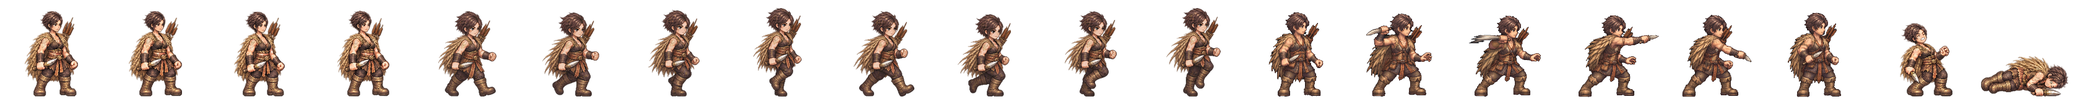
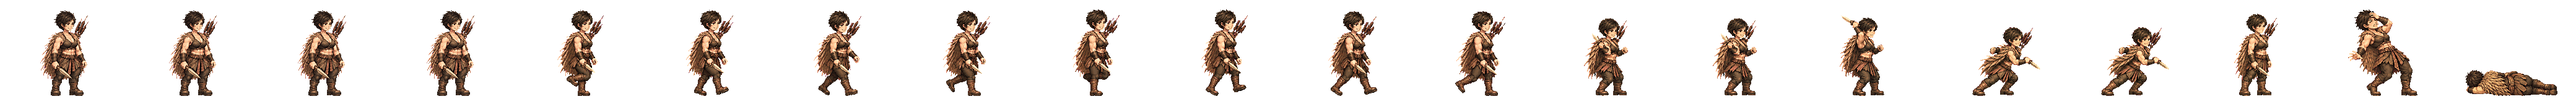
골벌 부들 새 전투 띠를 게임에 넣음(서기·걷기·단검 내려베기 여덟 칸·쓰러짐·칼등 튕겨 보기)
Claude-Session: https://claude.ai/code/session_01TRiuN7s6aDfSnaHxrkctmU

Changed region(s): [[0.0, 0.0938, 1.0, 0.9688]]

diff --git a/src/realm/data/spritePx.ts b/src/realm/data/spritePx.ts
@@ -1,3 +1,3 @@
 /** public/realm/anim-px/manifest.json 의 사본 — tools/sprite-normalize.mjs 가 만든다 (손으로 고치지 말 것). 칸 [가로, 세로] · feet = 발 줄(칸 위에서 y) · bodyPx = 서 있는 몸 키 */
 import { expandManifest } from './sprite-manifest.ts'
-export const SPRITE_PX: Readonly<Record<string, { readonly cell: readonly [number, number]; readonly feet: number; readonly bodyPx: number; readonly kind: 'general' | 'soldier' | 'folk' | 'crowd'; readonly cells: number }>> = expandManifest<{ readonly cell: readonly [number, number]; readonly feet: number; readonly bodyPx: number; readonly kind: 'general' | 'soldier' | 'folk' | 'crowd'; readonly cells: number }>([{"cell":[166,128],"feet":126,"bodyPx":124,"kind":"soldier","cells":20},{"cell":[116,128],"feet":126,"bodyPx":117,"kind":"soldier","cells":20},{"cell":[127,128],"feet":126,"bodyPx":116,"kind":"soldier","cells":20},{"cell":[269,128],"feet":126,"bodyPx":126,"kind":"soldier","cells":20},{"cell":[503,128],"feet":126,"bodyPx":127,"kind":"soldier","cells":20},{"cell":[614,128],"feet":126,"bodyPx":126,"kind":"soldier","cells":20},{"cell":[200,160],"feet":156,"bodyPx":138,"kind":"general","cells":20},{"cell":[208,160],"feet":155,"bodyPx":138,"kind":"general","cells":20},{"cell":[208,160],"feet":154,"bodyPx":138,"kind":"general","cells":20},{"cell":[304,160],"feet":155,"bodyPx":135,"kind":"general","cells":20},{"cell":[224,160],"feet":156,"bodyPx":139,"kind":"general","cells":20},{"cell":[184,160],"feet":156,"bodyPx":138,"kind":"general","cells":20},{"cell":[208,160],"feet":154,"bodyPx":136,"kind":"general","cells":20},{"cell":[240,160],"feet":156,"bodyPx":138,"kind":"general","cells":20},{"cell":[232,160],"feet":156,"bodyPx":138,"kind":"general","cells":20},{"cell":[208,160],"feet":156,"bodyPx":138,"kind":"general","cells":20},{"cell":[168,160],"feet":156,"bodyPx":138,"kind":"general","cells":20},{"cell":[192,160],"feet":156,"bodyPx":138,"kind":"general","cells":20},{"cell":[168,160],"feet":156,"bodyPx":124,"kind":"general","cells":20},{"cell":[216,160],"feet":156,"bodyPx":130,"kind":"general","cells":20},{"cell":[200,160],"feet":156,"bodyPx":116,"kind":"general","cells":20},{"cell":[200,160],"feet":156,"bodyPx":135,"kind":"general","cells":20},{"cell":[280,160],"feet":156,"bodyPx":138,"kind":"general","cells":20},{"cell":[232,160],"feet":155,"bodyPx":138,"kind":"general","cells":20},{"cell":[232,160],"feet":156,"bodyPx":134,"kind":"general","cells":20},{"cell":[144,160],"feet":156,"bodyPx":70,"kind":"general","cells":20},{"cell":[208,160],"feet":156,"bodyPx":70,"kind":"general","cells":20},{"cell":[192,160],"feet":156,"bodyPx":70,"kind":"general","cells":20},{"cell":[240,160],"feet":155,"bodyPx":138,"kind":"general","cells":20},{"cell":[160,160],"feet":156,"bodyPx":135,"kind":"general","cells":20},{"cell":[192,160],"feet":156,"bodyPx":128,"kind":"general","cells":20},{"cell":[224,160],"feet":155,"bodyPx":138,"kind":"general","cells":20},{"cell":[232,160],"feet":156,"bodyPx":139,"kind":"general","cells":20},{"cell":[216,160],"feet":156,"bodyPx":138,"kind":"general","cells":20},{"cell":[208,160],"feet":156,"bodyPx":134,"kind":"general","cells":20},{"cell":[176,160],"feet":156,"bodyPx":130,"kind":"general","cells":20},{"cell":[248,160],"feet":156,"bodyPx":138,"kind":"general","cells":20},{"cell":[248,160],"feet":155,"bodyPx":138,"kind":"general","cells":20},{"cell":[192,160],"feet":155,"bodyPx":138,"kind":"general","cells":20},{"cell":[192,160],"feet":156,"bodyPx":124,"kind":"general","cells":20},{"cell":[208,160],"feet":154,"bodyPx":131,"kind":"general","cells":20},{"cell":[256,160],"feet":156,"bodyPx":138,"kind":"general","cells":20},{"cell":[232,160],"feet":156,"bodyPx":73,"kind":"general","cells":20},{"cell":[256,160],"feet":155,"bodyPx":138,"kind":"general","cells":20},{"cell":[264,160],"feet":156,"bodyPx":138,"kind":"general","cells":20},{"cell":[224,160],"feet":156,"bodyPx":138,"kind":"general","cells":20},{"cell":[224,160],"feet":156,"bodyPx":128,"kind":"general","cells":20},{"cell":[176,160],"feet":156,"bodyPx":129,"kind":"general","cells":20},{"cell":[208,160],"feet":154,"bodyPx":139,"kind":"general","cells":20},{"cell":[208,160],"feet":156,"bodyPx":132,"kind":"general","cells":20},{"cell":[216,160],"feet":155,"bodyPx":138,"kind":"general","cells":20},{"cell":[184,160],"feet":156,"bodyPx":122,"kind":"general","cells":20},{"cell":[176,160],"feet":156,"bodyPx":138,"kind":"general","cells":20},{"cell":[280,160],"feet":155,"bodyPx":133,"kind":"general","cells":20},{"cell":[176,160],"feet":156,"bodyPx":70,"kind":"general","cells":20},{"cell":[186,128],"feet":126,"bodyPx":127,"kind":"soldier","cells":20},{"cell":[298,128],"feet":126,"bodyPx":126,"kind":"soldier","cells":20},{"cell":[82,128],"feet":126,"bodyPx":114,"kind":"folk","cells":8},{"cell":[134,128],"feet":126,"bodyPx":119,"kind":"soldier","cells":20},{"cell":[380,128],"feet":126,"bodyPx":124,"kind":"soldier","cells":20},{"cell":[114,128],"feet":126,"bodyPx":115,"kind":"soldier","cells":20},{"cell":[122,128],"feet":126,"bodyPx":114,"kind":"soldier","cells":20},{"cell":[254,128],"feet":126,"bodyPx":128,"kind":"soldier","cells":20},{"cell":[438,128],"feet":126,"bodyPx":126,"kind":"soldier","cells":20},{"cell":[88,128],"feet":126,"bodyPx":113,"kind":"folk","cells":8},{"cell":[100,128],"feet":126,"bodyPx":115,"kind":"folk","cells":8},{"cell":[108,128],"feet":126,"bodyPx":115,"kind":"folk","cells":8},{"cell":[63,128],"feet":126,"bodyPx":113,"kind":"folk","cells":8},{"cell":[69,96],"feet":96,"bodyPx":96,"kind":"crowd","cells":1},{"cell":[54,96],"feet":96,"bodyPx":96,"kind":"crowd","cells":1},{"cell":[47,96],"feet":96,"bodyPx":96,"kind":"crowd","cells":1},{"cell":[49,96],"feet":96,"bodyPx":96,"kind":"crowd","cells":1},{"cell":[57,96],"feet":96,"bodyPx":96,"kind":"crowd","cells":1},{"cell":[55,96],"feet":96,"bodyPx":96,"kind":"crowd","cells":1},{"cell":[45,96],"feet":96,"bodyPx":96,"kind":"crowd","cells":1},{"cell":[53,96],"feet":96,"bodyPx":96,"kind":"crowd","cells":1},{"cell":[64,96],"feet":96,"bodyPx":96,"kind":"crowd","cells":1},{"cell":[184,160],"feet":156,"bodyPx":124,"kind":"general","cells":20},{"cell":[184,160],"feet":156,"bodyPx":134,"kind":"general","cells":20},{"cell":[224,160],"feet":156,"bodyPx":133,"kind":"general","cells":20},{"cell":[192,160],"feet":156,"bodyPx":135,"kind":"general","cells":20},{"cell":[184,160],"feet":156,"bodyPx":137,"kind":"general","cells":20},{"cell":[216,160],"feet":156,"bodyPx":134,"kind":"general","cells":20},{"cell":[216,160],"feet":156,"bodyPx":132,"kind":"general","cells":20},{"cell":[288,160],"feet":156,"bodyPx":138,"kind":"general","cells":20},{"cell":[192,160],"feet":156,"bodyPx":118,"kind":"general","cells":20},{"cell":[208,160],"feet":154,"bodyPx":134,"kind":"general","cells":20},{"cell":[192,160],"feet":157,"bodyPx":139,"kind":"general","cells":20},{"cell":[184,160],"feet":156,"bodyPx":128,"kind":"general","cells":20},{"cell":[240,160],"feet":156,"bodyPx":128,"kind":"general","cells":20},{"cell":[184,160],"feet":156,"bodyPx":132,"kind":"general","cells":20},{"cell":[208,160],"feet":156,"bodyPx":123,"kind":"general","cells":20},{"cell":[208,160],"feet":154,"bodyPx":137,"kind":"general","cells":20},{"cell":[176,160],"feet":156,"bodyPx":116,"kind":"general","cells":20},{"cell":[272,160],"feet":156,"bodyPx":138,"kind":"general","cells":20},{"cell":[176,160],"feet":156,"bodyPx":122,"kind":"general","cells":20},{"cell":[232,160],"feet":156,"bodyPx":127,"kind":"general","cells":20},{"cell":[176,160],"feet":156,"bodyPx":137,"kind":"general","cells":20},{"cell":[184,160],"feet":156,"bodyPx":133,"kind":"general","cells":20}],[["axe",0],["bandit-chief",1],["bandit-club",2],["boat",3],["bow",4],["crossbow",5],["gen-adogan",6],["gen-alpyeong",7],["gen-ara",8],["gen-areum",8],["gen-aryeong",9],["gen-bakdal",6],["gen-baram",10],["gen-bdanbi",11],["gen-beom",12],["gen-beombal",11],["gen-beomi",13],["gen-bira",14],["gen-biryu",15],["gen-budeul",16],["gen-byeol",17],["gen-daemusin",18],["gen-daeso",19],["gen-dallae2",11],["gen-dalli",11],["gen-damul",20],["gen-danbi",15],["gen-dangung",17],["gen-darae",21],["gen-dokmudeom",7],["gen-duman",22],["gen-eomni",23],["gen-eureum",24],["gen-g-bow",25],["gen-g-spear",26],["gen-g-sword",27],["gen-gaennae",6],["gen-gamsil",28],["gen-gaon",29],["gen-geota",15],["gen-geumbawi",11],["gen-geumha",30],["gen-goeun",15],["gen-gom",31],["gen-gomok",15],["gen-gureum",28],["gen-guryema",17],["gen-gwaeyu",14],["gen-haebi",8],["gen-haedal",6],["gen-haesol",32],["gen-halla",7],["gen-heo",8],["gen-hneoul",11],["gen-hogong",33],["gen-hojin",15],["gen-horselord",34],["gen-hwalmi",35],["gen-hyeokgeose",17],["gen-hyeopbo",6],["gen-irang",15],["gen-jibaekho",36],["gen-jinha",37],["gen-jita",38],["gen-jumong",39],["gen-keundol",7],["gen-maehwa",40],["gen-maenun",17],["gen-malgalgi",41],["gen-mari",13],["gen-maro",36],["gen-maryeo",15],["gen-mdallae",32],["gen-mir",6],["gen-mount",42],["gen-mulbeom",43],["gen-mulsae",33],["gen-musoe",33],["gen-noeul",8],["gen-nuri",44],["gen-ocheongan",45],["gen-odi",8],["gen-odogan",6],["gen-ogan",17],["gen-oi",46],["gen-olddaeso",24],["gen-onjo",47],["gen-pidogan",15],["gen-sagong",48],["gen-sdallae",6],["gen-sincheongan",33],["gen-singwigan",33],["gen-sinneoul",8],["gen-sobeol",23],["gen-soebi",6],["gen-soebo",49],["gen-soenun",36],["gen-sogeumbi",50],["gen-songbi",45],["gen-songyang",51],["gen-sori",52],["gen-soseono",53],["gen-suro",17],["gen-tahae",6],["gen-tneoul",8],["gen-w-bow",25],["gen-w-spear",54],["gen-waechief",15],["gen-wan",33],["gen-yeodogan",15],["gen-yucheongan",15],["gen-yusugan",36],["horse",55],["marine",56],["migrant",57],["militia",58],["pike",59],["pirate-captain",60],["pirate-sword",61],["shield",62],["spear",63],["villager-builder",64],["villager-farmer",65],["villager-porter",66],["villager-woman",67],["crowd-b1",68],["crowd-b2",69],["crowd-b3",70],["crowd-b4",71],["crowd-b5",72],["crowd-b6",73],["crowd-f1",68],["crowd-f2",73],["crowd-f3",74],["crowd-f4",75],["crowd-f5",68],["crowd-f6",76],["gen-dalbit",15],["gen-base-g-07-drunk-warrior",17],["gen-base-g-40-anya-adan",15],["gen-base-w-13-young-archer",8],["gen-base-g-03-sea-trader",13],["gen-base-w-10-pirate-captain",48],["gen-base-w-64-miri-dallae",48],["gen-base-g-41-goja-bau",13],["gen-base-g-42-dokro-garam",44],["gen-base-g-09-farmer-conscript",33],["gen-base-w-02-goguryeo-lady",33],["gen-base-w-17-mahan-pearl-diver",8],["gen-base-g-17-saro-isageum",49],["gen-base-g-18-daegaya-king",77],["gen-base-g-35-dabeol-dalgu",15],["gen-base-g-19-sabeol-veteran",33],["gen-base-w-23-usisan-whale-queen",8],["gen-base-g-36-gammun-gamdol",45],["gen-base-g-20-samul-sea-lord",41],["gen-base-g-37-eumjeup-jeup",11],["gen-base-g-38-chopal-palmae",17],["gen-base-w-75-daegaya-soemoe",17],["gen-base-g-45-dabeol-deulgae",11],["gen-base-g-04-jinhan-giant",15],["gen-base-g-08-veteran",15],["gen-base-w-18-jinhan-salt-widow",15],["gen-base-w-12-court-dancer",78],["gen-base-w-83-gyeonji-beodeul",79],["gen-base-w-05-baekje-queen",80],["gen-base-w-21-baekje-court-dancer",11],["gen-base-g-01-master-smith",81],["gen-base-g-93-jomun-solgae",35],["gen-base-g-57-bihwa-neup",13],["gen-base-w-72-eumjeup-beol",8],["gen-base-w-102-garak-dana",48],["gen-base-g-68-baekje-onnuri",15],["gen-base-w-27-mokji-jinha",6],["gen-base-g-22-ungcheon-gomnae",6],["gen-base-g-23-sangdang-soedal",15],["gen-base-g-24-wansan-onsan",6],["gen-base-g-25-balla-keunmoe",33],["gen-base-g-61-heomcheuk-bawi",33],["gen-base-g-88-wander-soeul",45],["gen-base-w-14-feast-spy",6],["gen-base-g-12-silla-youth",82],["gen-base-w-08-mahan-warrior",8],["gen-base-g-62-beonye-hanul",13],["gen-base-g-63-heomcheuk-beogeum",15],["gen-base-g-84-wander-seoneul",15],["gen-base-w-50-siljik-mulga",33],["gen-base-g-46-uga-nureongso",33],["gen-base-w-80-usan-gangchi",13],["gen-base-g-47-guga-sanyanggae",33],["gen-base-w-76-gampyeong-baetsagong",8],["gen-base-g-05-mahan-chieftain",83],["gen-base-g-58-usan-uhae",15],["gen-base-g-27-maek-maekdol",15],["gen-base-w-53-hwanna-gabi",16],["gen-base-w-29-golpo-janmul",36],["gen-base-g-53-baekje-haeru",6],["gen-base-w-71-yeonna-neoul",13],["gen-base-w-79-yangmaek-solmae",33],["gen-base-w-34-chopal-deulme",8],["gen-base-g-44-maga-malgup",84],["gen-base-w-31-dabeol-dalbit",48],["gen-base-g-51-biryuna-mulgyeol",45],["gen-base-g-48-gwanna-musoe",15],["gen-base-g-32-uga-sodu",14],["gen-base-g-49-goguryeo-sona",85],["gen-base-g-30-gwanna-soemoe",45],["gen-base-g-52-tamna-oreum",11],["gen-base-g-29-yeonna-myeongsol",39],["gen-base-w-56-dongokjeo-sogeum",86],["gen-base-g-54-mokji-mahan",14],["gen-base-g-33-jeoga-metdol",17],["gen-base-w-36-baekje-maena",8],["gen-base-w-38-sangdang-bulmae",6],["gen-base-w-39-gosaburi-galmae",87],["gen-base-w-40-mujin-munui",49],["gen-base-w-41-hwanna-beodeul",88],["gen-base-w-43-uga-nuri",41],["gen-base-w-45-tamna-oreumbi",11],["gen-base-g-60-golbeol-golgae",11],["gen-base-g-61-apdok-ap",33],["gen-base-g-62-gammun-gamnamu",6],["gen-base-g-63-chopal-yeoul",36],["gen-base-g-64-michuhol-sogeumkkun",13],["gen-base-g-65-sangdang-soemangchi",45],["gen-base-g-66-geonma-malbalgup",89],["gen-base-g-67-gosaburi-buri",90],["gen-base-g-68-mujin-bitgoeul",11],["gen-base-g-69-goryong-yong",45],["gen-base-g-70-siljik-pado",13],["gen-base-w-81-byeokjin-byeolbit",14],["gen-base-w-46-geonma-maru",36],["gen-base-w-48-mujin-mudeung",13],["gen-base-g-26-gampyeong-gaetbeol",14],["gen-base-g-60-eupcha-hangyeol",91],["gen-base-g-15-shaman-man",33],["gen-base-g-85-wander-ure",36],["gen-base-g-43-hwanna-amnok",15],["gen-base-g-50-bullae-gwaha",80],["gen-base-g-55-saro-bakdal",15],["gen-base-g-56-haseulla-gwahama",6],["gen-base-w-06-buyeo-huntress",92],["gen-base-w-22-dongye-tiger-huntress",8],["gen-base-w-25-bihwa-priestess",33],["gen-base-w-24-apdok-queen",11],["gen-base-w-61-iseo-sinae",15],["gen-base-w-26-iseo-tomboy-general",8],["gen-base-g-59-yangmaek-maekson",93],["gen-aw1-haebi",45],["gen-aw1-soseono",94],["gen-aw1-gamsil",11],["gen-aw1-mir",52],["gen-aw1-dangung",6],["gen-aw1-ara",45],["gen-aw1-jumong",95],["gen-aw1-onjo",96],["gen-aw1-base-w-83-gyeonji-beodeul",17],["gen-aw1-heo",44],["gen-aw1-base-g-38-chopal-palmae",6],["gen-aw1-base-w-25-bihwa-priestess",78],["gen-aw1-sori",16],["gen-aw1-gomok",6],["gen-aw1-irang",17],["gen-aw1-budeul",16],["gen-aw1-gom",13],["gen-aw1-sdallae",6],["gen-aw1-base-w-13-young-archer",6],["gen-aw1-base-w-36-baekje-maena",97],["gen-aw1-base-g-09-farmer-conscript",44],["gen-aw1-base-w-02-goguryeo-lady",98],["gen-aw1-haedal",11],["gen-aw1-hogong",6],["gen-aw1-maehwa",52],["gen-aw1-base-w-06-buyeo-huntress",14],["gen-aw1-base-w-08-mahan-warrior",45],["gen-aw1-base-w-29-golpo-janmul",45],["gen-aw1-base-w-31-dabeol-dalbit",17],["gen-aw1-base-w-38-sangdang-bulmae",16],["gen-aw1-bira",33],["gen-aw1-base-w-53-hwanna-gabi",16],["gen-aw1-base-w-56-dongokjeo-sogeum",52],["gen-aw1-base-w-72-eumjeup-beol",17],["gen-aw1-bdanbi",16],["gen-aw1-beom",11],["gen-aw1-beombal",11],["gen-aw1-byeol",17],["gen-aw1-dalli",52],["gen-aw1-malgalgi",36],["gen-aw1-sincheongan",33]])
+export const SPRITE_PX: Readonly<Record<string, { readonly cell: readonly [number, number]; readonly feet: number; readonly bodyPx: number; readonly kind: 'general' | 'soldier' | 'folk' | 'crowd'; readonly cells: number }>> = expandManifest<{ readonly cell: readonly [number, number]; readonly feet: number; readonly bodyPx: number; readonly kind: 'general' | 'soldier' | 'folk' | 'crowd'; readonly cells: number }>([{"cell":[166,128],"feet":126,"bodyPx":124,"kind":"soldier","cells":20},{"cell":[116,128],"feet":126,"bodyPx":117,"kind":"soldier","cells":20},{"cell":[127,128],"feet":126,"bodyPx":116,"kind":"soldier","cells":20},{"cell":[269,128],"feet":126,"bodyPx":126,"kind":"soldier","cells":20},{"cell":[503,128],"feet":126,"bodyPx":127,"kind":"soldier","cells":20},{"cell":[614,128],"feet":126,"bodyPx":126,"kind":"soldier","cells":20},{"cell":[200,160],"feet":156,"bodyPx":138,"kind":"general","cells":20},{"cell":[208,160],"feet":155,"bodyPx":138,"kind":"general","cells":20},{"cell":[208,160],"feet":154,"bodyPx":138,"kind":"general","cells":20},{"cell":[304,160],"feet":155,"bodyPx":135,"kind":"general","cells":20},{"cell":[224,160],"feet":156,"bodyPx":139,"kind":"general","cells":20},{"cell":[184,160],"feet":156,"bodyPx":138,"kind":"general","cells":20},{"cell":[208,160],"feet":154,"bodyPx":136,"kind":"general","cells":20},{"cell":[240,160],"feet":156,"bodyPx":138,"kind":"general","cells":20},{"cell":[232,160],"feet":156,"bodyPx":138,"kind":"general","cells":20},{"cell":[208,160],"feet":156,"bodyPx":138,"kind":"general","cells":20},{"cell":[192,160],"feet":156,"bodyPx":138,"kind":"general","cells":20},{"cell":[168,160],"feet":156,"bodyPx":124,"kind":"general","cells":20},{"cell":[216,160],"feet":156,"bodyPx":130,"kind":"general","cells":20},{"cell":[200,160],"feet":156,"bodyPx":116,"kind":"general","cells":20},{"cell":[200,160],"feet":156,"bodyPx":135,"kind":"general","cells":20},{"cell":[280,160],"feet":156,"bodyPx":138,"kind":"general","cells":20},{"cell":[232,160],"feet":155,"bodyPx":138,"kind":"general","cells":20},{"cell":[232,160],"feet":156,"bodyPx":134,"kind":"general","cells":20},{"cell":[144,160],"feet":156,"bodyPx":70,"kind":"general","cells":20},{"cell":[208,160],"feet":156,"bodyPx":70,"kind":"general","cells":20},{"cell":[192,160],"feet":156,"bodyPx":70,"kind":"general","cells":20},{"cell":[240,160],"feet":155,"bodyPx":138,"kind":"general","cells":20},{"cell":[160,160],"feet":156,"bodyPx":135,"kind":"general","cells":20},{"cell":[192,160],"feet":156,"bodyPx":128,"kind":"general","cells":20},{"cell":[224,160],"feet":155,"bodyPx":138,"kind":"general","cells":20},{"cell":[232,160],"feet":156,"bodyPx":139,"kind":"general","cells":20},{"cell":[216,160],"feet":156,"bodyPx":138,"kind":"general","cells":20},{"cell":[208,160],"feet":156,"bodyPx":134,"kind":"general","cells":20},{"cell":[176,160],"feet":156,"bodyPx":130,"kind":"general","cells":20},{"cell":[248,160],"feet":156,"bodyPx":138,"kind":"general","cells":20},{"cell":[248,160],"feet":155,"bodyPx":138,"kind":"general","cells":20},{"cell":[192,160],"feet":155,"bodyPx":138,"kind":"general","cells":20},{"cell":[192,160],"feet":156,"bodyPx":124,"kind":"general","cells":20},{"cell":[208,160],"feet":154,"bodyPx":131,"kind":"general","cells":20},{"cell":[256,160],"feet":156,"bodyPx":138,"kind":"general","cells":20},{"cell":[232,160],"feet":156,"bodyPx":73,"kind":"general","cells":20},{"cell":[256,160],"feet":155,"bodyPx":138,"kind":"general","cells":20},{"cell":[264,160],"feet":156,"bodyPx":138,"kind":"general","cells":20},{"cell":[224,160],"feet":156,"bodyPx":138,"kind":"general","cells":20},{"cell":[224,160],"feet":156,"bodyPx":128,"kind":"general","cells":20},{"cell":[176,160],"feet":156,"bodyPx":129,"kind":"general","cells":20},{"cell":[208,160],"feet":154,"bodyPx":139,"kind":"general","cells":20},{"cell":[208,160],"feet":156,"bodyPx":132,"kind":"general","cells":20},{"cell":[216,160],"feet":155,"bodyPx":138,"kind":"general","cells":20},{"cell":[184,160],"feet":156,"bodyPx":122,"kind":"general","cells":20},{"cell":[176,160],"feet":156,"bodyPx":138,"kind":"general","cells":20},{"cell":[280,160],"feet":155,"bodyPx":133,"kind":"general","cells":20},{"cell":[176,160],"feet":156,"bodyPx":70,"kind":"general","cells":20},{"cell":[186,128],"feet":126,"bodyPx":127,"kind":"soldier","cells":20},{"cell":[298,128],"feet":126,"bodyPx":126,"kind":"soldier","cells":20},{"cell":[82,128],"feet":126,"bodyPx":114,"kind":"folk","cells":8},{"cell":[134,128],"feet":126,"bodyPx":119,"kind":"soldier","cells":20},{"cell":[380,128],"feet":126,"bodyPx":124,"kind":"soldier","cells":20},{"cell":[114,128],"feet":126,"bodyPx":115,"kind":"soldier","cells":20},{"cell":[122,128],"feet":126,"bodyPx":114,"kind":"soldier","cells":20},{"cell":[254,128],"feet":126,"bodyPx":128,"kind":"soldier","cells":20},{"cell":[438,128],"feet":126,"bodyPx":126,"kind":"soldier","cells":20},{"cell":[88,128],"feet":126,"bodyPx":113,"kind":"folk","cells":8},{"cell":[100,128],"feet":126,"bodyPx":115,"kind":"folk","cells":8},{"cell":[108,128],"feet":126,"bodyPx":115,"kind":"folk","cells":8},{"cell":[63,128],"feet":126,"bodyPx":113,"kind":"folk","cells":8},{"cell":[69,96],"feet":96,"bodyPx":96,"kind":"crowd","cells":1},{"cell":[54,96],"feet":96,"bodyPx":96,"kind":"crowd","cells":1},{"cell":[47,96],"feet":96,"bodyPx":96,"kind":"crowd","cells":1},{"cell":[49,96],"feet":96,"bodyPx":96,"kind":"crowd","cells":1},{"cell":[57,96],"feet":96,"bodyPx":96,"kind":"crowd","cells":1},{"cell":[55,96],"feet":96,"bodyPx":96,"kind":"crowd","cells":1},{"cell":[45,96],"feet":96,"bodyPx":96,"kind":"crowd","cells":1},{"cell":[53,96],"feet":96,"bodyPx":96,"kind":"crowd","cells":1},{"cell":[64,96],"feet":96,"bodyPx":96,"kind":"crowd","cells":1},{"cell":[184,160],"feet":156,"bodyPx":124,"kind":"general","cells":20},{"cell":[184,160],"feet":156,"bodyPx":134,"kind":"general","cells":20},{"cell":[224,160],"feet":156,"bodyPx":133,"kind":"general","cells":20},{"cell":[192,160],"feet":156,"bodyPx":135,"kind":"general","cells":20},{"cell":[184,160],"feet":156,"bodyPx":137,"kind":"general","cells":20},{"cell":[216,160],"feet":156,"bodyPx":134,"kind":"general","cells":20},{"cell":[216,160],"feet":156,"bodyPx":132,"kind":"general","cells":20},{"cell":[168,160],"feet":156,"bodyPx":138,"kind":"general","cells":20},{"cell":[288,160],"feet":156,"bodyPx":138,"kind":"general","cells":20},{"cell":[192,160],"feet":156,"bodyPx":118,"kind":"general","cells":20},{"cell":[208,160],"feet":154,"bodyPx":134,"kind":"general","cells":20},{"cell":[192,160],"feet":157,"bodyPx":139,"kind":"general","cells":20},{"cell":[184,160],"feet":156,"bodyPx":128,"kind":"general","cells":20},{"cell":[240,160],"feet":156,"bodyPx":128,"kind":"general","cells":20},{"cell":[184,160],"feet":156,"bodyPx":132,"kind":"general","cells":20},{"cell":[208,160],"feet":156,"bodyPx":123,"kind":"general","cells":20},{"cell":[208,160],"feet":154,"bodyPx":137,"kind":"general","cells":20},{"cell":[176,160],"feet":156,"bodyPx":116,"kind":"general","cells":20},{"cell":[272,160],"feet":156,"bodyPx":138,"kind":"general","cells":20},{"cell":[176,160],"feet":156,"bodyPx":122,"kind":"general","cells":20},{"cell":[232,160],"feet":156,"bodyPx":127,"kind":"general","cells":20},{"cell":[176,160],"feet":156,"bodyPx":137,"kind":"general","cells":20},{"cell":[184,160],"feet":156,"bodyPx":133,"kind":"general","cells":20}],[["axe",0],["bandit-chief",1],["bandit-club",2],["boat",3],["bow",4],["crossbow",5],["gen-adogan",6],["gen-alpyeong",7],["gen-ara",8],["gen-areum",8],["gen-aryeong",9],["gen-bakdal",6],["gen-baram",10],["gen-bdanbi",11],["gen-beom",12],["gen-beombal",11],["gen-beomi",13],["gen-bira",14],["gen-biryu",15],["gen-budeul",8],["gen-byeol",16],["gen-daemusin",17],["gen-daeso",18],["gen-dallae2",11],["gen-dalli",11],["gen-damul",19],["gen-danbi",15],["gen-dangung",16],["gen-darae",20],["gen-dokmudeom",7],["gen-duman",21],["gen-eomni",22],["gen-eureum",23],["gen-g-bow",24],["gen-g-spear",25],["gen-g-sword",26],["gen-gaennae",6],["gen-gamsil",27],["gen-gaon",28],["gen-geota",15],["gen-geumbawi",11],["gen-geumha",29],["gen-goeun",15],["gen-gom",30],["gen-gomok",15],["gen-gureum",27],["gen-guryema",16],["gen-gwaeyu",14],["gen-haebi",8],["gen-haedal",6],["gen-haesol",31],["gen-halla",7],["gen-heo",8],["gen-hneoul",11],["gen-hogong",32],["gen-hojin",15],["gen-horselord",33],["gen-hwalmi",34],["gen-hyeokgeose",16],["gen-hyeopbo",6],["gen-irang",15],["gen-jibaekho",35],["gen-jinha",36],["gen-jita",37],["gen-jumong",38],["gen-keundol",7],["gen-maehwa",39],["gen-maenun",16],["gen-malgalgi",40],["gen-mari",13],["gen-maro",35],["gen-maryeo",15],["gen-mdallae",31],["gen-mir",6],["gen-mount",41],["gen-mulbeom",42],["gen-mulsae",32],["gen-musoe",32],["gen-noeul",8],["gen-nuri",43],["gen-ocheongan",44],["gen-odi",8],["gen-odogan",6],["gen-ogan",16],["gen-oi",45],["gen-olddaeso",23],["gen-onjo",46],["gen-pidogan",15],["gen-sagong",47],["gen-sdallae",6],["gen-sincheongan",32],["gen-singwigan",32],["gen-sinneoul",8],["gen-sobeol",22],["gen-soebi",6],["gen-soebo",48],["gen-soenun",35],["gen-sogeumbi",49],["gen-songbi",44],["gen-songyang",50],["gen-sori",51],["gen-soseono",52],["gen-suro",16],["gen-tahae",6],["gen-tneoul",8],["gen-w-bow",24],["gen-w-spear",53],["gen-waechief",15],["gen-wan",32],["gen-yeodogan",15],["gen-yucheongan",15],["gen-yusugan",35],["horse",54],["marine",55],["migrant",56],["militia",57],["pike",58],["pirate-captain",59],["pirate-sword",60],["shield",61],["spear",62],["villager-builder",63],["villager-farmer",64],["villager-porter",65],["villager-woman",66],["crowd-b1",67],["crowd-b2",68],["crowd-b3",69],["crowd-b4",70],["crowd-b5",71],["crowd-b6",72],["crowd-f1",67],["crowd-f2",72],["crowd-f3",73],["crowd-f4",74],["crowd-f5",67],["crowd-f6",75],["gen-dalbit",15],["gen-base-g-07-drunk-warrior",16],["gen-base-g-40-anya-adan",15],["gen-base-w-13-young-archer",8],["gen-base-g-03-sea-trader",13],["gen-base-w-10-pirate-captain",47],["gen-base-w-64-miri-dallae",47],["gen-base-g-41-goja-bau",13],["gen-base-g-42-dokro-garam",43],["gen-base-g-09-farmer-conscript",32],["gen-base-w-02-goguryeo-lady",32],["gen-base-w-17-mahan-pearl-diver",8],["gen-base-g-17-saro-isageum",48],["gen-base-g-18-daegaya-king",76],["gen-base-g-35-dabeol-dalgu",15],["gen-base-g-19-sabeol-veteran",32],["gen-base-w-23-usisan-whale-queen",8],["gen-base-g-36-gammun-gamdol",44],["gen-base-g-20-samul-sea-lord",40],["gen-base-g-37-eumjeup-jeup",11],["gen-base-g-38-chopal-palmae",16],["gen-base-w-75-daegaya-soemoe",16],["gen-base-g-45-dabeol-deulgae",11],["gen-base-g-04-jinhan-giant",15],["gen-base-g-08-veteran",15],["gen-base-w-18-jinhan-salt-widow",15],["gen-base-w-12-court-dancer",77],["gen-base-w-83-gyeonji-beodeul",78],["gen-base-w-05-baekje-queen",79],["gen-base-w-21-baekje-court-dancer",11],["gen-base-g-01-master-smith",80],["gen-base-g-93-jomun-solgae",34],["gen-base-g-57-bihwa-neup",13],["gen-base-w-72-eumjeup-beol",8],["gen-base-w-102-garak-dana",47],["gen-base-g-68-baekje-onnuri",15],["gen-base-w-27-mokji-jinha",6],["gen-base-g-22-ungcheon-gomnae",6],["gen-base-g-23-sangdang-soedal",15],["gen-base-g-24-wansan-onsan",6],["gen-base-g-25-balla-keunmoe",32],["gen-base-g-61-heomcheuk-bawi",32],["gen-base-g-88-wander-soeul",44],["gen-base-w-14-feast-spy",6],["gen-base-g-12-silla-youth",81],["gen-base-w-08-mahan-warrior",8],["gen-base-g-62-beonye-hanul",13],["gen-base-g-63-heomcheuk-beogeum",15],["gen-base-g-84-wander-seoneul",15],["gen-base-w-50-siljik-mulga",32],["gen-base-g-46-uga-nureongso",32],["gen-base-w-80-usan-gangchi",13],["gen-base-g-47-guga-sanyanggae",32],["gen-base-w-76-gampyeong-baetsagong",8],["gen-base-g-05-mahan-chieftain",82],["gen-base-g-58-usan-uhae",15],["gen-base-g-27-maek-maekdol",15],["gen-base-w-53-hwanna-gabi",83],["gen-base-w-29-golpo-janmul",35],["gen-base-g-53-baekje-haeru",6],["gen-base-w-71-yeonna-neoul",13],["gen-base-w-79-yangmaek-solmae",32],["gen-base-w-34-chopal-deulme",8],["gen-base-g-44-maga-malgup",84],["gen-base-w-31-dabeol-dalbit",47],["gen-base-g-51-biryuna-mulgyeol",44],["gen-base-g-48-gwanna-musoe",15],["gen-base-g-32-uga-sodu",14],["gen-base-g-49-goguryeo-sona",85],["gen-base-g-30-gwanna-soemoe",44],["gen-base-g-52-tamna-oreum",11],["gen-base-g-29-yeonna-myeongsol",38],["gen-base-w-56-dongokjeo-sogeum",86],["gen-base-g-54-mokji-mahan",14],["gen-base-g-33-jeoga-metdol",16],["gen-base-w-36-baekje-maena",8],["gen-base-w-38-sangdang-bulmae",6],["gen-base-w-39-gosaburi-galmae",87],["gen-base-w-40-mujin-munui",48],["gen-base-w-41-hwanna-beodeul",88],["gen-base-w-43-uga-nuri",40],["gen-base-w-45-tamna-oreumbi",11],["gen-base-g-60-golbeol-golgae",11],["gen-base-g-61-apdok-ap",32],["gen-base-g-62-gammun-gamnamu",6],["gen-base-g-63-chopal-yeoul",35],["gen-base-g-64-michuhol-sogeumkkun",13],["gen-base-g-65-sangdang-soemangchi",44],["gen-base-g-66-geonma-malbalgup",89],["gen-base-g-67-gosaburi-buri",90],["gen-base-g-68-mujin-bitgoeul",11],["gen-base-g-69-goryong-yong",44],["gen-base-g-70-siljik-pado",13],["gen-base-w-81-byeokjin-byeolbit",14],["gen-base-w-46-geonma-maru",35],["gen-base-w-48-mujin-mudeung",13],["gen-base-g-26-gampyeong-gaetbeol",14],["gen-base-g-60-eupcha-hangyeol",91],["gen-base-g-15-shaman-man",32],["gen-base-g-85-wander-ure",35],["gen-base-g-43-hwanna-amnok",15],["gen-base-g-50-bullae-gwaha",79],["gen-base-g-55-saro-bakdal",15],["gen-base-g-56-haseulla-gwahama",6],["gen-base-w-06-buyeo-huntress",92],["gen-base-w-22-dongye-tiger-huntress",8],["gen-base-w-25-bihwa-priestess",32],["gen-base-w-24-apdok-queen",11],["gen-base-w-61-iseo-sinae",15],["gen-base-w-26-iseo-tomboy-general",8],["gen-base-g-59-yangmaek-maekson",93],["gen-aw1-haebi",44],["gen-aw1-soseono",94],["gen-aw1-gamsil",11],["gen-aw1-mir",51],["gen-aw1-dangung",6],["gen-aw1-ara",44],["gen-aw1-jumong",95],["gen-aw1-onjo",96],["gen-aw1-base-w-83-gyeonji-beodeul",16],["gen-aw1-heo",43],["gen-aw1-base-g-38-chopal-palmae",6],["gen-aw1-base-w-25-bihwa-priestess",77],["gen-aw1-sori",83],["gen-aw1-gomok",6],["gen-aw1-irang",16],["gen-aw1-budeul",83],["gen-aw1-gom",13],["gen-aw1-sdallae",6],["gen-aw1-base-w-13-young-archer",6],["gen-aw1-base-w-36-baekje-maena",97],["gen-aw1-base-g-09-farmer-conscript",43],["gen-aw1-base-w-02-goguryeo-lady",98],["gen-aw1-haedal",11],["gen-aw1-hogong",6],["gen-aw1-maehwa",51],["gen-aw1-base-w-06-buyeo-huntress",14],["gen-aw1-base-w-08-mahan-warrior",44],["gen-aw1-base-w-29-golpo-janmul",44],["gen-aw1-base-w-31-dabeol-dalbit",16],["gen-aw1-base-w-38-sangdang-bulmae",83],["gen-aw1-bira",32],["gen-aw1-base-w-53-hwanna-gabi",83],["gen-aw1-base-w-56-dongokjeo-sogeum",51],["gen-aw1-base-w-72-eumjeup-beol",16],["gen-aw1-bdanbi",83],["gen-aw1-beom",11],["gen-aw1-beombal",11],["gen-aw1-byeol",16],["gen-aw1-dalli",51],["gen-aw1-malgalgi",35],["gen-aw1-sincheongan",32]])

diff --git a/src/duel/view.ts b/src/duel/view.ts
@@ -100,7 +100,7 @@ const crowdFront = [1, 2, 3, 4, 5, 6].map((i) => img(`realm/duel/crowd/b${i}.png
 const crowdReady = (set: HTMLImageElement[]): boolean => set.every((im) => im.complete && im.naturalWidth > 0)
 const pxMode = cfg.px !== false && params.get('px') !== '0'
 /** 겨루기 전용 옛 띠(duel/sprites) 대신 열전과 같은 도트 띠(anim-px)를 쓰는 장수 — 두 판에서 같은 모습 · 서기 계획·쓰러지는 칸도 같다 (11-23 범 · 매화 · 달빛 · 11-24 해비 · 아룸) */
-const PX_DUEL: ReadonlySet<string> = new Set(['beom', 'maehwa', 'base-w-31-dabeol-dalbit', 'haebi', 'areum', 'base-w-13-young-archer', 'base-w-10-pirate-captain', 'base-w-17-mahan-pearl-diver', 'base-w-06-buyeo-huntress', 'base-w-64-miri-dallae', 'ara', 'base-w-22-dongye-tiger-huntress', 'noeul', 'sagong', 'sinneoul', 'heo', 'base-w-08-mahan-warrior', 'base-w-23-usisan-whale-queen', 'base-w-26-iseo-tomboy-general', 'base-w-72-eumjeup-beol', 'tneoul', 'odi', 'base-w-76-gampyeong-baetsagong', 'base-w-34-chopal-deulme', 'base-w-102-garak-dana', 'base-w-36-baekje-maena', 'base-w-56-dongokjeo-sogeum'])
+const PX_DUEL: ReadonlySet<string> = new Set(['beom', 'maehwa', 'base-w-31-dabeol-dalbit', 'haebi', 'areum', 'base-w-13-young-archer', 'base-w-10-pirate-captain', 'base-w-17-mahan-pearl-diver', 'base-w-06-buyeo-huntress', 'base-w-64-miri-dallae', 'ara', 'base-w-22-dongye-tiger-huntress', 'noeul', 'sagong', 'sinneoul', 'heo', 'base-w-08-mahan-warrior', 'base-w-23-usisan-whale-queen', 'base-w-26-iseo-tomboy-general', 'base-w-72-eumjeup-beol', 'tneoul', 'odi', 'base-w-76-gampyeong-baetsagong', 'base-w-34-chopal-deulme', 'base-w-102-garak-dana', 'base-w-36-baekje-maena', 'base-w-56-dongokjeo-sogeum', 'budeul'])
 /** 띠 그림 — 기본은 anim-px(도트 규격) 먼저, 없으면 옛 띠로 (img 의 onerror 가 갈아 끼운다) */
 const strip = (s: string): HTMLImageElement => pxMode
   ? DUEL_ATLASES[s] !== undefined && !PX_DUEL.has(s) ? img(`realm/duel/sprites/gen-${s}.png`, `realm/anim-px/gen-${s}.png`)

diff --git a/src/tune/params.ts b/src/tune/params.ts
@@ -1446,6 +1446,7 @@ export const HAEBI_IDLE = {
     'base-w-102-garak-dana': { cells: 26, base: [0, 1], hold: 2.4, fall: [18, 20, 21, 19], quirk: [22, 23, 24, 25], quirkTimes: [.28, .3, .42, .25] },
     'base-w-36-baekje-maena': { cells: 26, base: [0, 1], hold: 2.4, fall: [18, 20, 21, 19], quirk: [22, 23, 24, 25], quirkTimes: [.28, .3, .42, .25] },
     'base-w-56-dongokjeo-sogeum': { cells: 34, base: [0, 1], hold: 2.4, fall: [18, 20, 21, 19], quirk: [22, 23, 24, 25], quirkTimes: [.3, .32, .4, .28], attack: { cells: [26, 27, 28, 29, 30, 31, 32, 33], times: [.09, .08, .11, .05, .15, .07, .08, .12], hit: 4 }, xGeom: { h: 224, root: 92, foot: 216 } },
+    budeul: { cells: 34, base: [0, 1], hold: 2.4, fall: [18, 20, 21, 19], quirk: [22, 23, 24, 25], quirkTimes: [.3, .32, .4, .28], attack: { cells: [26, 27, 28, 29, 30, 31, 32, 33], times: [.09, .08, .11, .05, .15, .07, .08, .12], hit: 4 }, xGeom: { h: 224, root: 92, foot: 216 } },
   },
 } as const
 export const HAEBI_ANIM = {
